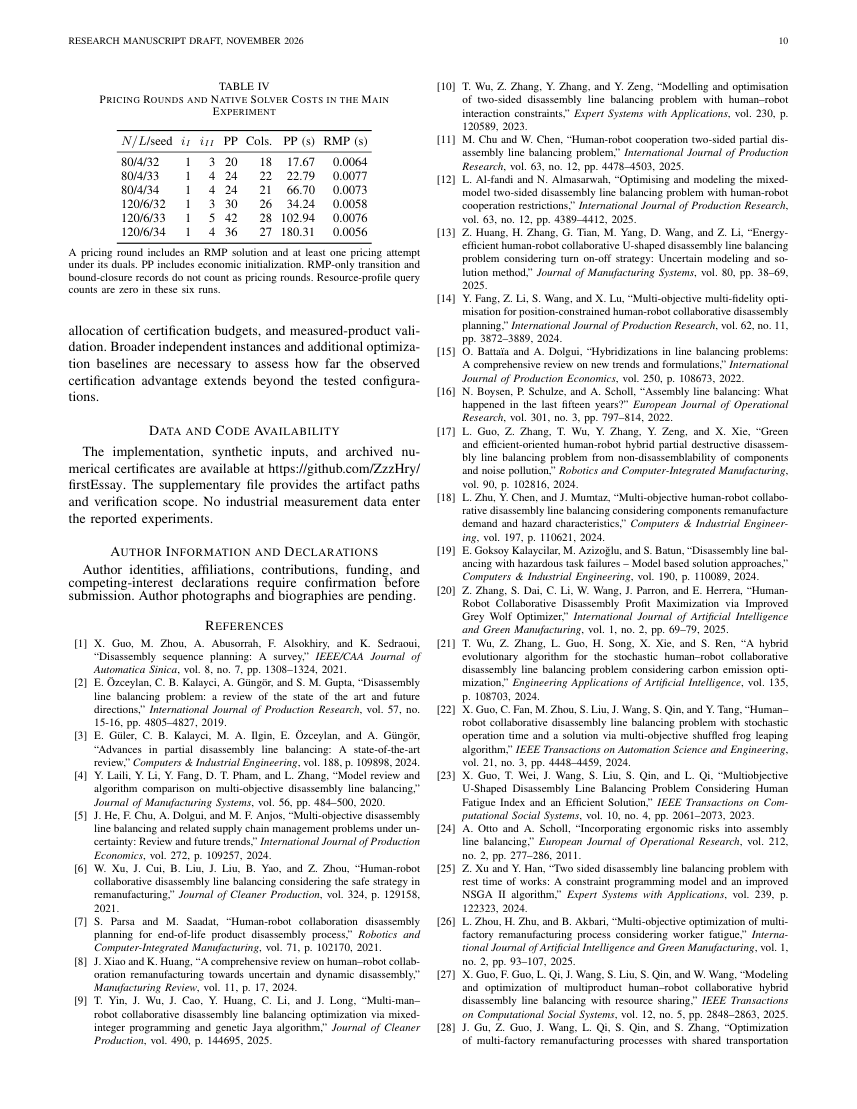
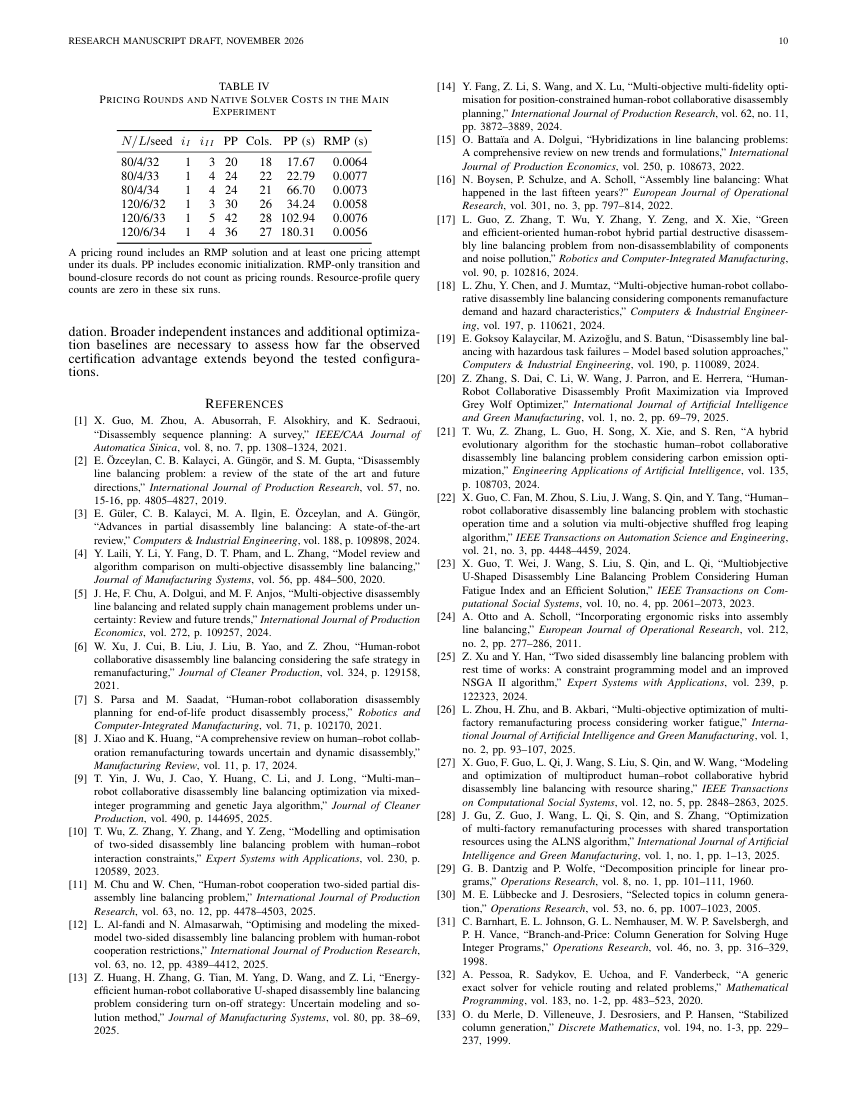
docs: remove availability and author declaration sections

Changed region(s): [[0.0607, 0.0613, 0.9405, 0.9504]]

diff --git a/essay/myEssay/HCDP.tex b/essay/myEssay/HCDP.tex
@@ -20,10 +20,6 @@ Human--robot collaboration, disassembly line balancing, column generation, cumul
 \input{sections/method}
 \input{sections/experiments}
 \input{sections/conclusion}
-\section*{Data and Code Availability}
-The implementation, synthetic inputs, and archived numerical certificates are available at \url{https://github.com/ZzzHry/firstEssay}. The supplementary file provides the artifact paths and verification scope. No industrial measurement data enter the reported experiments.
-\section*{Author Information and Declarations}
-Author identities, affiliations, contributions, funding, and competing-interest declarations require confirmation before submission. Author photographs and biographies are pending.
 \bibliographystyle{IEEEtran}
 \begingroup\fontsize{8}{9.5}\selectfont
 \bibliography{MyReferences}
